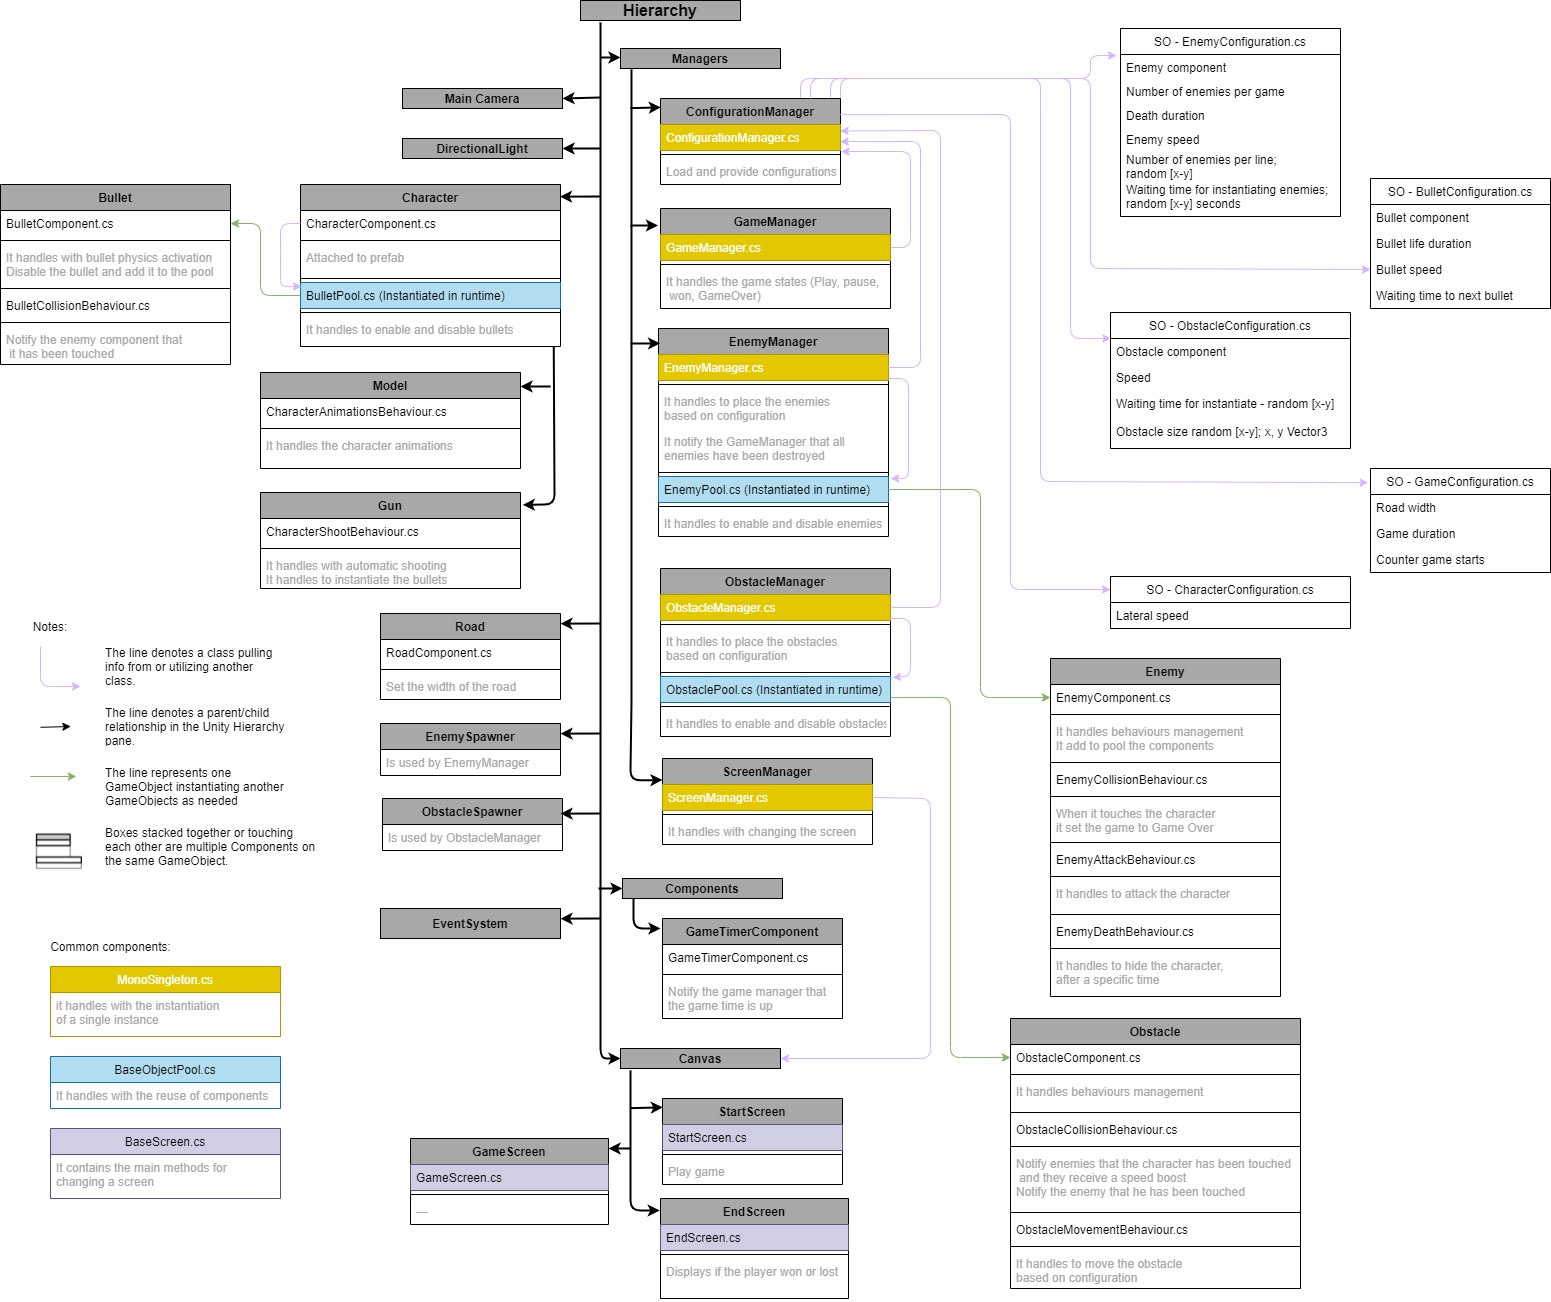
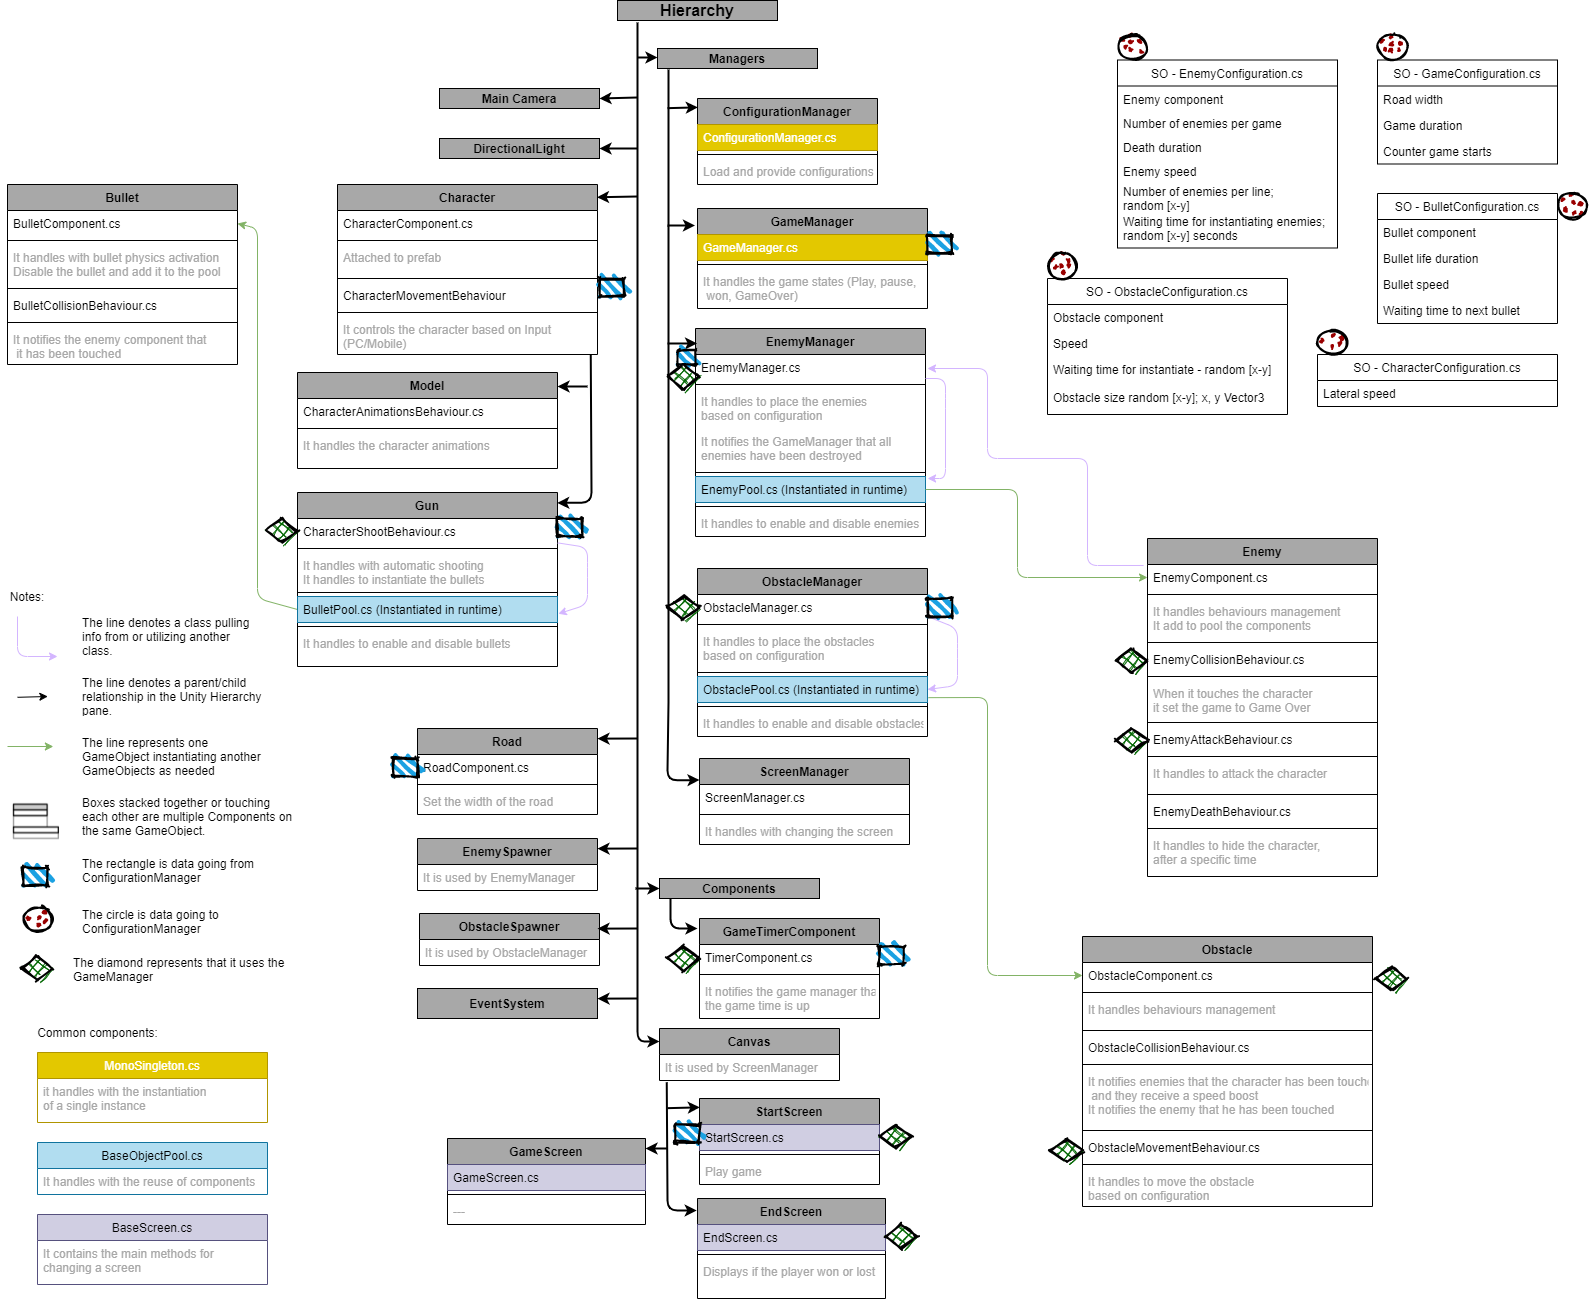
Added diagram, Cleanup Adjusted configuration.cs files (attributes, tooltip)

diff --git a/Assets/Scripts/EnemyModule/Managers/EnemyManager.cs b/Assets/Scripts/EnemyModule/Managers/EnemyManager.cs
@@ -2,7 +2,6 @@ using System.Collections;
 using EnemyModule.Pool;
 using GameConfigurationModule.Managers;
 using Globals;
-using MonoSingleton;
 using ScriptableObjects;
 using StateModule.Globals;
 using StateModule.Managers;
@@ -11,7 +10,7 @@ using Random = UnityEngine.Random;
 
 namespace EnemyModule.Managers
 {
-    public class EnemyManager : MonoSingleton<EnemyManager>
+    public class EnemyManager : MonoBehaviour
     {
         private Coroutine instantiationCoroutine;
         private Transform enemySpawner;
@@ -24,10 +23,8 @@ namespace EnemyModule.Managers
         private int currentEnemiesShotDown;
         private int remainingEnemiesInstantiation;
 
-        protected override void Awake()
+        private void Awake()
         {
-            base.Awake();
-
             enemySpawner = GameObject.FindGameObjectWithTag(Tags.EnemySpawner).transform;
 
             InitializeConfigurations();
@@ -35,13 +32,13 @@ namespace EnemyModule.Managers
             InitializeStates();
         }
 
-        public void EnemyShotDownByBullet()
+        private void EnemyShotDownByBullet()
         {
             currentEnemiesShotDown++;
             CheckNumberEnemiesShotDown();
         }
 
-        public void EnemyShotDownByObstacle()
+        private void EnemyShotDownByObstacle()
         {
             remainingEnemiesInstantiation++;
         }
@@ -124,7 +121,7 @@ namespace EnemyModule.Managers
         {
             enemyPool = gameObject.AddComponent<EnemyPool>();
             enemyPool.RegisterComponent(enemyConfiguration.GetEnemyComponent);
-            enemyPool.SetEnemyModuleConfigurations(enemyConfiguration.GetDeathDuration);
+            enemyPool.SetEnemyModuleConfigurations(enemyConfiguration.GetDeathDuration, EnemyShotDownByBullet, EnemyShotDownByObstacle);
         }
 
         private void InitializeStates()

diff --git a/Assets/Scripts/ScriptableObjects/EnemyConfiguration.cs b/Assets/Scripts/ScriptableObjects/EnemyConfiguration.cs
@@ -7,13 +7,20 @@ namespace ScriptableObjects
     [CreateAssetMenu(fileName = "EnemyConfiguration", menuName = "Create configuration/Enemy configuration")]
     public class EnemyConfiguration : ScriptableObject
     {
-        [SerializeField, Tooltip("Prefab")] private EnemyComponent enemyComponent;
-        [SerializeField] private int numberEnemiesInGame;
-        [SerializeField, Tooltip("Seconds")] private float deathDuration;
-        [SerializeField] private float speed;
-        [SerializeField, Tooltip("It will be applied when the character touches the wall")] private float boost;
-        [SerializeField] private Interval<int> numberEnemiesPerLine;
-        [SerializeField, Tooltip("Seconds")] private Interval<float> waitingTimeInstantiatingEnemies;
+        [SerializeField, Tooltip("Assign the prefab that contains the EnemyComponent.")] 
+        private EnemyComponent enemyComponent;
+        [SerializeField, Min(1), Tooltip("The total number of enemies that will be in the game.")] 
+        private int numberEnemiesInGame;
+        [SerializeField, Min(0), Tooltip("Duration until the enemy disappears. (seconds)")] 
+        private float deathDuration;
+        [SerializeField, Min(0.1f), Tooltip("The default speed of the enemy.")] 
+        private float speed;
+        [SerializeField, Min(0), Tooltip("Extra applied speed when the character touches a wall.")] 
+        private float boost;
+        [SerializeField, Tooltip("The number of enemies that will be instantiated in line.")] 
+        private Interval<int> numberEnemiesPerLine;
+        [SerializeField, Tooltip(" The waiting time until the next enemies will appear in scene. (seconds)")] 
+        private Interval<float> waitingTimeInstantiatingEnemies;
 
         public EnemyComponent GetEnemyComponent => enemyComponent;
 

diff --git a/Assets/Scripts/EnemyModule/Components/EnemyComponent.cs b/Assets/Scripts/EnemyModule/Components/EnemyComponent.cs
@@ -1,8 +1,6 @@
 using System;
 using EnemyModule.Behaviours;
-using EnemyModule.Managers;
 using EnemyModule.Pool;
-using Globals;
 using StateModule.Globals;
 using UnityEngine;
 
@@ -14,6 +12,8 @@ namespace EnemyModule.Components
     public class EnemyComponent : MonoBehaviour
     {
         private static EnemyPool enemyPool;
+        private static Action shotDownByBullet;
+        private static Action shotDownByObstacle;
 
         private EnemyAttackBehaviour enemyAttackBehaviour;
         private EnemyDeathBehaviour enemyDeathBehaviour;
@@ -63,20 +63,22 @@ namespace EnemyModule.Components
             hit = false;
         }
 
-        public void SetEnemyConfigurations(float deathDuration, EnemyPool pool)
+        public void SetEnemyConfigurations(float deathDuration, EnemyPool pool, Action shotDownBullet, Action shotDownObstacle)
         {
             EnemyDeathBehaviour.SetConfigurations(deathDuration);
             enemyPool = pool;
+            shotDownByBullet = shotDownBullet;
+            shotDownByObstacle = shotDownObstacle;
         }
 
         public void TouchedByBullet()
         {
-            Touched(EnemyManager.Instance.EnemyShotDownByBullet);
+            Touched(shotDownByBullet);
         }
 
         public void TouchedByObstacle()
         {
-            Touched(EnemyManager.Instance.EnemyShotDownByObstacle);
+            Touched(shotDownByObstacle);
         }
 
         private void Touched(Action shotDown)

diff --git a/Assets/Scripts/ScriptableObjects/ObstacleConfiguration.cs b/Assets/Scripts/ScriptableObjects/ObstacleConfiguration.cs
@@ -7,11 +7,16 @@ namespace ScriptableObjects
     [CreateAssetMenu(fileName = "ObstacleConfiguration", menuName = "Create configuration/Obstacle configuration")]
     public class ObstacleConfiguration : ScriptableObject
     {
-        [SerializeField, Tooltip("Prefab")] private ObstacleComponent obstacleComponent;
-        [SerializeField] private float speed;
-        [SerializeField, Tooltip("Seconds")] private float obstacleLifeDuration;
-        [SerializeField, Tooltip("Seconds")] private Interval<float> waitingTimeInstantiatingObstacle;
-        [SerializeField] private Interval<Vector3> obstacleSize;
+        [SerializeField, Tooltip("Assign the prefab that contains the ObstacleComponent.")] 
+        private ObstacleComponent obstacleComponent;
+        [SerializeField, Min(0.1f), Tooltip("The speed of the obstacle.")] 
+        private float speed;
+        [SerializeField, Min(0.1f), Tooltip("The life of the bullet after it was instantiated. (seconds)")] 
+        private float obstacleLifeDuration;
+        [SerializeField, Tooltip("The waiting time until the next obstacles will appear in scene. (seconds)")] 
+        private Interval<float> waitingTimeInstantiatingObstacle;
+        [SerializeField, Tooltip("The size of the obstacle.")] 
+        private Interval<Vector3> obstacleSize;
 
         public ObstacleComponent GetObstacleComponent => obstacleComponent;
 

diff --git a/Assets/Scripts/ScriptableObjects/BulletConfiguration.cs b/Assets/Scripts/ScriptableObjects/BulletConfiguration.cs
@@ -6,10 +6,14 @@ namespace ScriptableObjects
     [CreateAssetMenu(fileName = "BulletConfiguration", menuName = "Create configuration/Bullet configuration")]
     public class BulletConfiguration : ScriptableObject
     {
-        [SerializeField, Tooltip("Prefab")] private BulletComponent bulletComponent;
-        [SerializeField, Tooltip("Seconds")] private float bulletLifeDuration;
-        [SerializeField, Range(5,25), Tooltip("Velocity")] private float bulletSpeed;
-        [SerializeField, Tooltip("Seconds")] private float waitingTimeNextBullet;
+        [SerializeField, Tooltip("Assign the prefab that contains the BulletComponent.")] 
+        private BulletComponent bulletComponent;
+        [SerializeField, Min(0), Tooltip("The life of the bullet after it was instantiated. (seconds)")] 
+        private float bulletLifeDuration;
+        [SerializeField, Range(5,25), Tooltip("The force to be applied to the bullet.")] 
+        private float bulletSpeed;
+        [SerializeField, Min(0), Tooltip("The waiting time until the next bullet appears. (seconds)")] 
+        private float waitingTimeNextBullet;
 
         public BulletComponent GetBulletComponent => bulletComponent;
 

diff --git a/Assets/Scripts/StateModule/Managers/GameManager.cs b/Assets/Scripts/StateModule/Managers/GameManager.cs
@@ -1,6 +1,8 @@
+using Globals;
 using MonoSingleton;
 using StateModule.Models;
 using UI.Managers;
+using UnityEngine;
 using static StateModule.Globals.States;
 
 namespace StateModule.Managers
@@ -8,6 +10,13 @@ namespace StateModule.Managers
     public class GameManager : MonoSingleton<GameManager>
     {
         private GameState gameState = GameState.IntroGame;
+        private ScreenManager screenManager;
+
+        protected override void Awake()
+        {
+            base.Awake();
+            screenManager = GameObject.FindGameObjectWithTag(Tags.Managers).GetComponentInChildren<ScreenManager>();
+        }
 
         public bool IsInGameMode()
         {
@@ -19,7 +28,7 @@ namespace StateModule.Managers
             var (localGameState, screen) = state.GetState();
             gameState = localGameState;
             state.InvokeStateActions();
-            ScreenManager.Instance.SwitchScreen(screen);
+            screenManager.SwitchScreen(screen);
         }
     }
 }

diff --git a/Assets/Scripts/ObstacleModule/Managers/ObstacleManager.cs b/Assets/Scripts/ObstacleModule/Managers/ObstacleManager.cs
@@ -1,7 +1,6 @@
 using System.Collections;
 using GameConfigurationModule.Managers;
 using Globals;
-using MonoSingleton;
 using ObstacleModule.Pool;
 using ScriptableObjects;
 using StateModule.Globals;
@@ -10,7 +9,7 @@ using UnityEngine;
 
 namespace ObstacleModule.Managers
 {
-    public class ObstacleManager : MonoSingleton<ObstacleManager>
+    public class ObstacleManager : MonoBehaviour
     {
         private ObstacleConfiguration obstacleConfiguration;
         private Coroutine instantiationCoroutine;
@@ -18,9 +17,8 @@ namespace ObstacleModule.Managers
         private ObstaclePool obstaclePool;
         private float roadWidth;
 
-        protected override void Awake()
+        private void Awake()
         {
-            base.Awake();
             obstacleSpawner = GameObject.FindGameObjectWithTag(Tags.ObstacleSpawner).transform;
 
             InitializeConfigurations();

diff --git a/Assets/Scripts/ScriptableObjects/GameConfiguration.cs b/Assets/Scripts/ScriptableObjects/GameConfiguration.cs
@@ -5,9 +5,12 @@ namespace ScriptableObjects
     [CreateAssetMenu(fileName = "GameConfiguration", menuName = "Create configuration/Game configuration")]
     public class GameConfiguration : ScriptableObject
     {
-        [SerializeField, Range(6,10)] private float roadWidth;
-        [SerializeField, Tooltip("Seconds")] private float gameDuration;
-        [SerializeField, Tooltip("Seconds")] private int waitingTimeUntilGameStart;
+        [SerializeField, Range(6,10), Tooltip("Influences the width of the road. (meters)")] 
+        private float roadWidth;
+        [SerializeField, Min(1), Tooltip("Time until the end of the game. (seconds)")] 
+        private float gameDuration;
+        [SerializeField, Min(0), Tooltip("Counter before the game starts. (seconds)")] 
+        private int waitingTimeUntilGameStart;
 
         public float RoadWidth => roadWidth;
 

diff --git a/Assets/Scripts/EnemyModule/Pool/EnemyPool.cs b/Assets/Scripts/EnemyModule/Pool/EnemyPool.cs
@@ -1,3 +1,4 @@
+using System;
 using EnemyModule.Components;
 using ObjectPool.BaseScripts;
 
@@ -5,10 +6,10 @@ namespace EnemyModule.Pool
 {
     public class EnemyPool : BaseObjectPool<EnemyComponent>
     {
-        public void SetEnemyModuleConfigurations(float deathDuration)
+        public void SetEnemyModuleConfigurations(float deathDuration, Action shotDownByBullet, Action shotDownByObstacle)
         {
             var enemy = GetObjectFromPool(false);
-            enemy.SetEnemyConfigurations(deathDuration, this);
+            enemy.SetEnemyConfigurations(deathDuration, this, shotDownByBullet, shotDownByObstacle);
             base.AddObjectToPool(enemy);
         }
     }

diff --git a/Assets/Scripts/UI/Managers/ScreenManager.cs b/Assets/Scripts/UI/Managers/ScreenManager.cs
@@ -1,22 +1,20 @@
 using System.Collections.Generic;
 using System.Linq;
 using Globals;
-using MonoSingleton;
 using UI.BaseScripts;
 using UnityEngine;
 
 namespace UI.Managers
 {
-    public class ScreenManager : MonoSingleton<ScreenManager>
+    public class ScreenManager : MonoBehaviour
     {
         private readonly Dictionary<object, BaseScreen> screens = new Dictionary<object, BaseScreen>();
 
         private GameObject rootCanvas;
         private BaseScreen currentBaseScreen;
 
-        protected override void Awake()
+        private void Awake()
         {
-            base.Awake();
             Initialization();
         }
 

diff --git a/Assets/Scripts/ScriptableObjects/CharacterConfiguration.cs b/Assets/Scripts/ScriptableObjects/CharacterConfiguration.cs
@@ -5,7 +5,8 @@ namespace ScriptableObjects
     [CreateAssetMenu(fileName = "CharacterConfiguration", menuName = "Create configuration/Character configuration")]
     public class CharacterConfiguration : ScriptableObject
     {
-        [SerializeField] private float lateralSpeed;
+        [SerializeField, Min(0.1f), Tooltip("Movement speed for the left and right.")] 
+        private float lateralSpeed;
 
         public float GetLateralSpeed => lateralSpeed;
     }

diff --git a/Assets/Scripts/Models/Interval.cs b/Assets/Scripts/Models/Interval.cs
@@ -6,8 +6,8 @@ namespace Models
     [Serializable]
     public class Interval<T>
     {
-        [SerializeField] private T minimum;
-        [SerializeField] private T maximum;
+        [SerializeField, Min(0)] private T minimum;
+        [SerializeField, Min(0)] private T maximum;
 
         public (T minimum, T maximum) GetInterval()
         {
